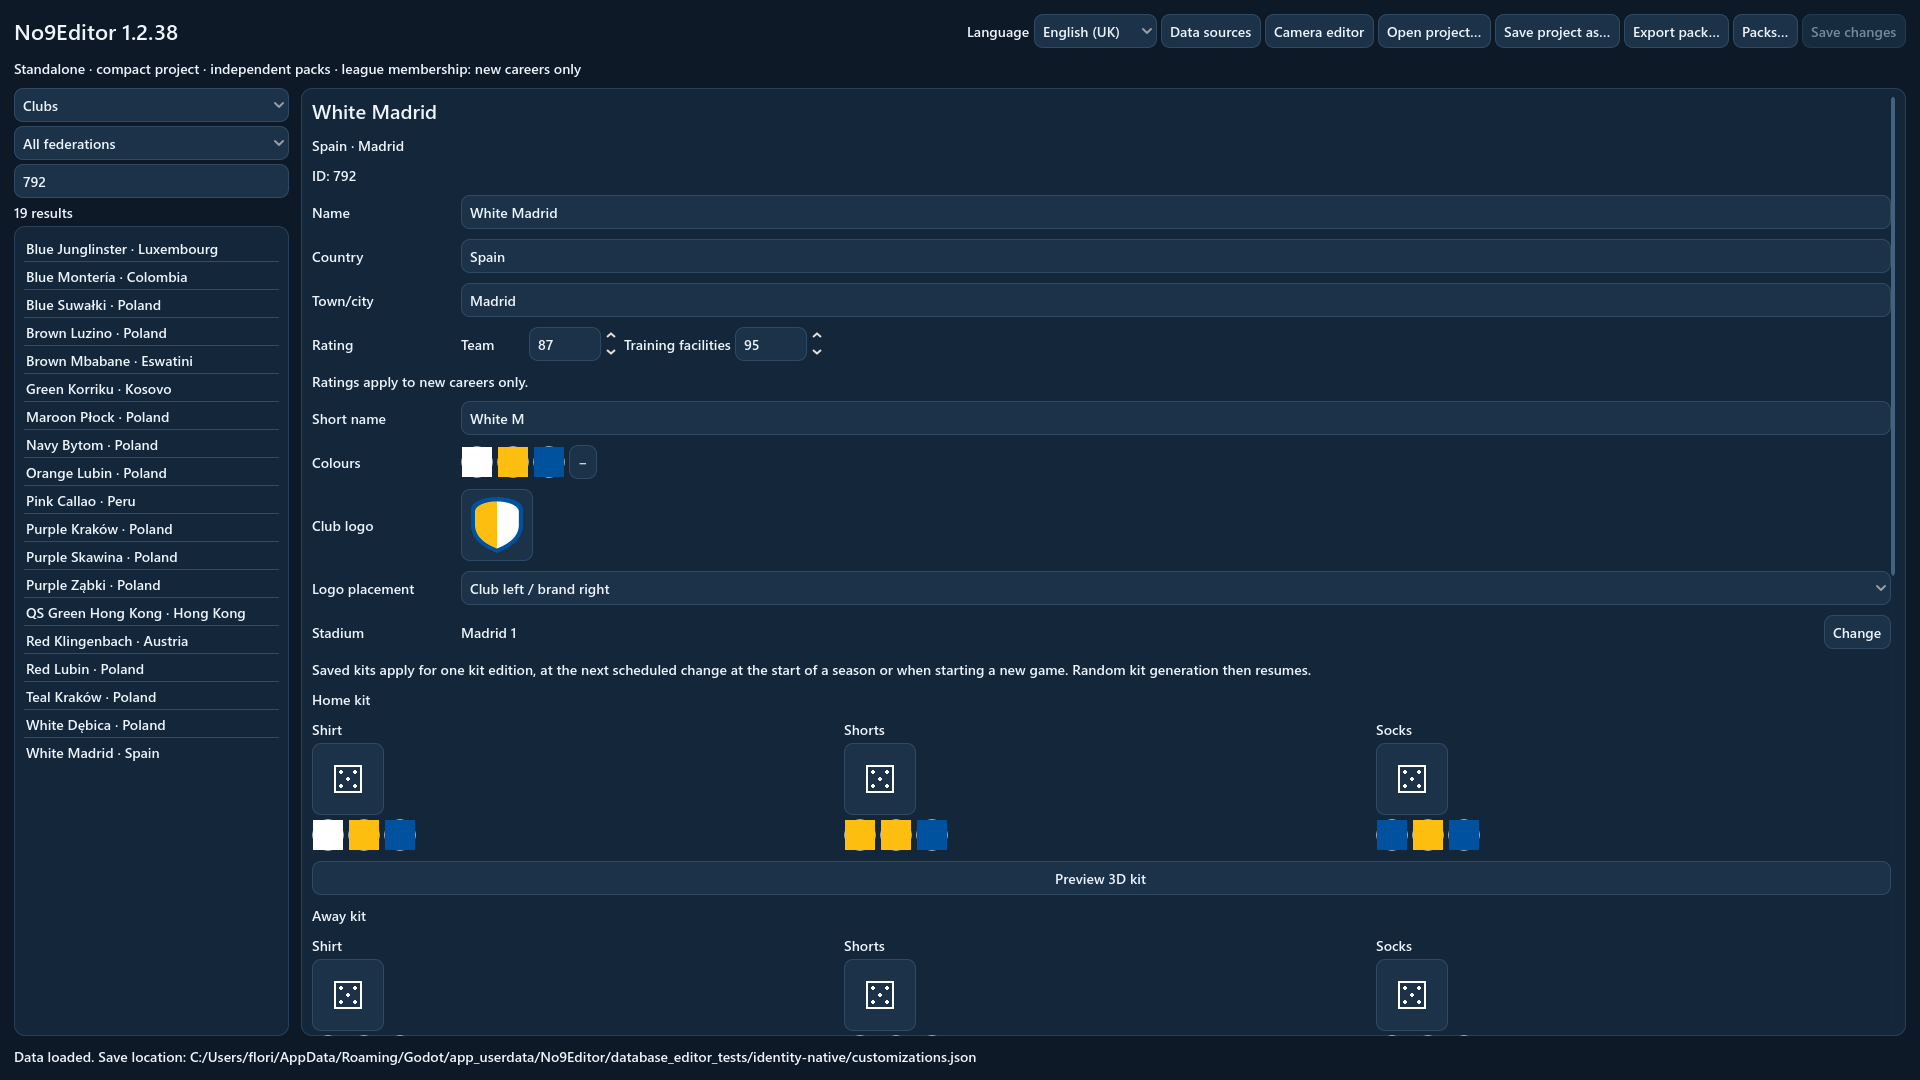
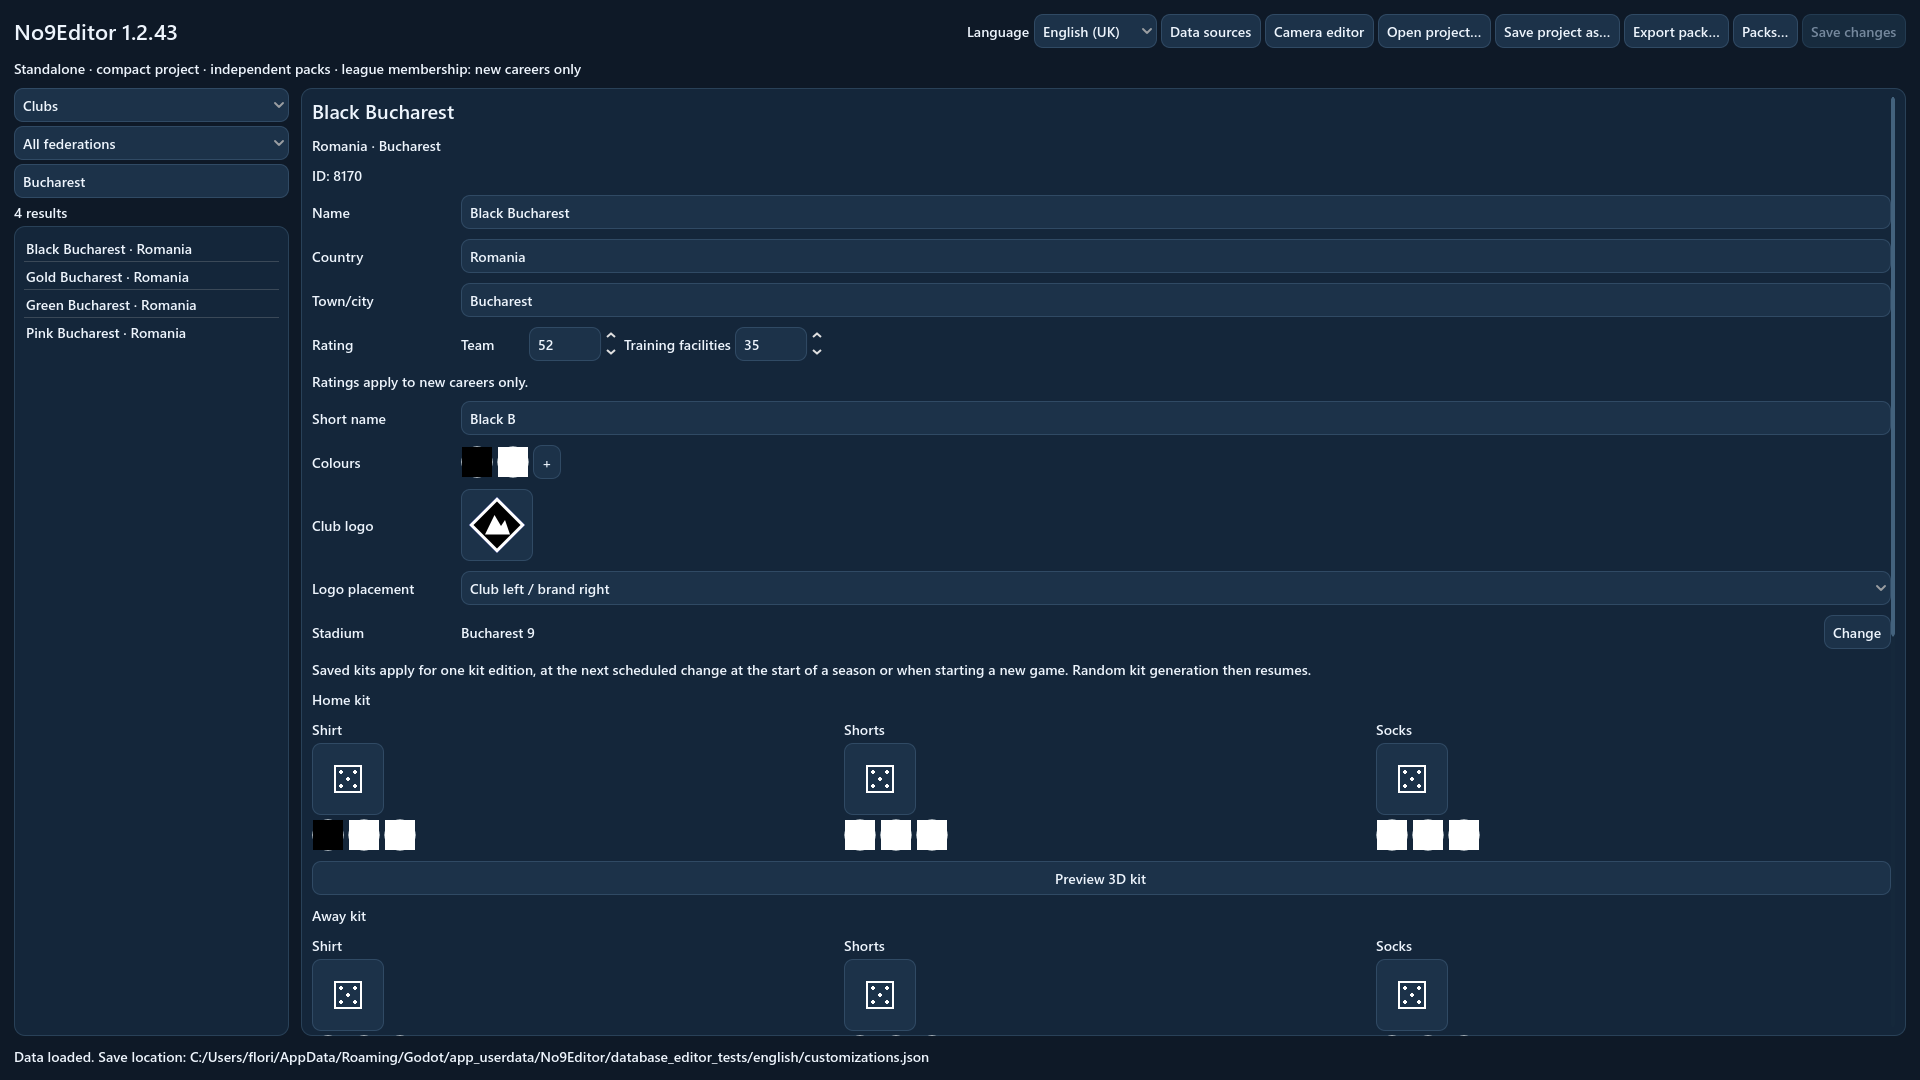
Present the current game and standalone No9Editor 1.2.43

diff --git a/docs/EDITOR.md b/docs/EDITOR.md
@@ -8,7 +8,7 @@
 
 **Clubs · Federations · Kits · Stadiums · Shared data packs**
 
-[Download for Windows 64-bit](https://github.com/florinhangu/Footballer/releases/download/no9editor-v1.2.38/No9Editor.exe) · [Download details](RELEASES.md) · [No9: Day One](../README.md)
+[Download for Windows 64-bit](https://github.com/florinhangu/Footballer/releases/download/no9editor-v1.2.43/No9Editor.exe) · [Download details](RELEASES.md) · [No9: Day One](../README.md)
 
 <img src="../media/editor/club-editor.png" width="92%" alt="The standalone No9Editor club form in British English">
 
@@ -56,10 +56,10 @@ limited. Public authors can edit names without publisher licensing controls.
 
 <div align="center">
   <img src="../media/editor/crest-gallery.png" width="44%" alt="The original crest gallery shown in the selected club's colours">
-  <img src="../media/editor/national-romania.png" width="44%" alt="A national football federation with its country-flag colours">
+  <img src="../media/editor/federation-editor.png" width="44%" alt="A national football federation with its country-flag colours in the standalone editor">
   <br>
-  <img src="../media/editor/international-competition.png" width="44%" alt="European Football Union Champions Trophy in the standalone editor">
-  <img src="../media/editor/generic-league-options-en.png" width="44%" alt="Numbered league tiers and separate lettered group identities">
+  <img src="../media/editor/competition-editor.png" width="44%" alt="African Football Union Champions Trophy and international competition regulations">
+  <img src="../media/editor/league-editor.png" width="44%" alt="Numbered league tiers in the standalone league editor">
 </div>
 
 ## Design the complete kit
@@ -78,7 +78,7 @@ default marks, while your own imported artwork remains available. Place the team
 crest and manufacturer on opposite sides of the chest or stack them centrally.
 
 <div align="center">
-  <img src="../media/editor/manufacturer-symbols.png" width="92%" alt="The twelve original kit manufacturer symbols in the standalone editor">
+  <img src="../media/editor/manufacturer-gallery.png" width="92%" alt="The twelve original kit manufacturer symbols in the standalone editor">
 </div>
 
 <div align="center">
@@ -95,6 +95,10 @@ crest and manufacturer on opposite sides of the chest or stack them centrally.
 Shape the stadium in a **live 3D preview**. Choose stands and corners, seat
 colours and patterns, tiers, roofs and supports. Set capacity and add match-day
 equipment such as dugouts, floodlights, scoreboards and advertising.
+
+Reference records include researched capacities and documented seating palettes
+where available. Undocumented details remain distinguishable from verified facts.
+You can set your own capacity, colours and design; authored choices take priority.
 
 Choose the surrounding environment and inspect the result with rotation, zoom,
 free view and an interior view. Stadium configurations travel with your data
@@ -128,6 +132,6 @@ game's normal kit generation resumes.
 
 **Windows 64-bit · Single executable · Approximately 551 MiB**
 
-[Download No9Editor.exe](https://github.com/florinhangu/Footballer/releases/download/no9editor-v1.2.38/No9Editor.exe)
+[Download No9Editor.exe](https://github.com/florinhangu/Footballer/releases/download/no9editor-v1.2.43/No9Editor.exe)
 and open it to start a project. The application includes its runtime, database
 and assets. See [download details](RELEASES.md) for the current version and checksum.

diff --git a/README.md b/README.md
@@ -114,6 +114,12 @@ Stadiums bring together stands, corners, seating, roofs, floodlights, scoreboard
 advertising and their surroundings. Custom teams, kits and grounds can be created
 and shared with the separate No9Editor application.
 Parking grows in compact blocks of paired rows as larger grounds need more spaces.
+Documented capacities and seating palettes inform generated grounds where reference
+data is available, while the stadium layout follows the game's capacity rules.
+
+<div align="center">
+  <img src="media/game/researched-seating.png" width="92%" alt="A generated stadium using the documented seating palette of its home ground">
+</div>
 
 ## Create your football world with No9Editor
 
@@ -124,7 +130,7 @@ Parking grows in compact blocks of paired rows as larger grounds need more space
 
 **Windows 64-bit · British English and Romanian · Portable projects and data packs**
 
-[Explore No9Editor](docs/EDITOR.md) · [Download No9Editor.exe](https://github.com/florinhangu/Footballer/releases/download/no9editor-v1.2.38/No9Editor.exe)
+[Explore No9Editor](docs/EDITOR.md) · [Download No9Editor.exe](https://github.com/florinhangu/Footballer/releases/download/no9editor-v1.2.43/No9Editor.exe)
 
   <img src="media/editor/kit-models.png" width="49%" alt="Visual shirt model selection using the team's kit colours in No9Editor">
   <img src="media/editor/kit-preview.png" width="49%" alt="The complete 3D kit preview with independent name and number fonts">
@@ -138,7 +144,7 @@ own included database; installing Godot is unnecessary.
 ## Get No9
 
 **No9Editor for Windows is available to download.**
-[Download the editor](https://github.com/florinhangu/Footballer/releases/download/no9editor-v1.2.38/No9Editor.exe)
+[Download the editor](https://github.com/florinhangu/Footballer/releases/download/no9editor-v1.2.43/No9Editor.exe)
 or see [download details](docs/RELEASES.md).
 
 A public game build is not available from this repository. The images above show

diff --git a/docs/RELEASES.md b/docs/RELEASES.md
@@ -4,9 +4,9 @@
 
 **Standalone football database, kit and stadium editor for Windows 64-bit.**
 
-Current version: **1.2.38**.
+Current version: **1.2.43**.
 
-[Download No9Editor.exe](https://github.com/florinhangu/Footballer/releases/download/no9editor-v1.2.38/No9Editor.exe) · [View the editor](EDITOR.md) · [Open the download page](https://github.com/florinhangu/Footballer/releases/tag/no9editor-v1.2.38)
+[Download No9Editor.exe](https://github.com/florinhangu/Footballer/releases/download/no9editor-v1.2.43/No9Editor.exe) · [View the editor](EDITOR.md) · [Open the download page](https://github.com/florinhangu/Footballer/releases/tag/no9editor-v1.2.43)
 
 Download the single executable and open it. It includes the runtime, database
 and assets; installing Godot is unnecessary. British English and Romanian are
@@ -14,15 +14,15 @@ available in the language selector.
 
 | File | Size |
 | --- | ---: |
-| `No9Editor.exe` | 578,175,656 bytes, approximately 551 MiB |
+| `No9Editor.exe` | 578,476,200 bytes, approximately 551 MiB |
 
 SHA-256:
 
 ```text
[2 lines of base64/hex data omitted]
 ```
 
-[Download SHA256SUMS.txt](https://github.com/florinhangu/Footballer/releases/download/no9editor-v1.2.38/SHA256SUMS.txt).
+[Download SHA256SUMS.txt](https://github.com/florinhangu/Footballer/releases/download/no9editor-v1.2.43/SHA256SUMS.txt).
 
 ## No9: Day One
 
